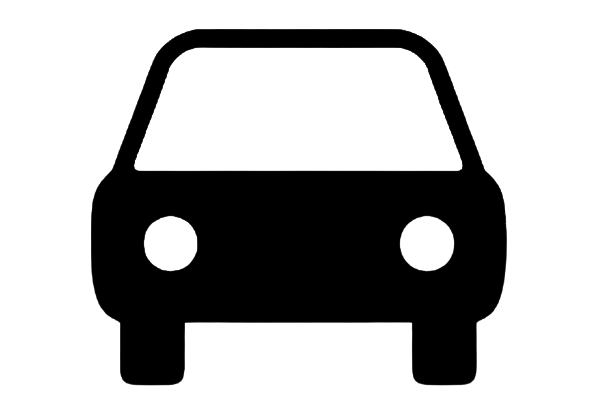
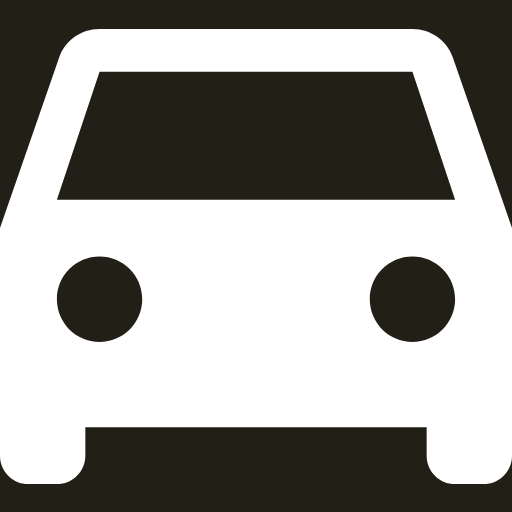
Estilizacion app
Cambie iconos, colores, tamaños de botones y registros

diff --git a/centinela/screens/EditarCarro.js b/centinela/screens/EditarCarro.js
@@ -145,8 +145,8 @@ const styles = StyleSheet.create({
     marginBottom: 30
   },
   input: {
-    width: '100%',
-    height: 40,
+    width: '90%',
+    height: 45,
     borderWidth: 1,
     borderColor: 'gray',
     marginBottom: 20,
@@ -154,17 +154,18 @@ const styles = StyleSheet.create({
     borderRadius: 20
   },
   boton: {
-    backgroundColor: '#365B6D',
+    backgroundColor: '#a29259',
     fontVariant: 'bold',
-    width: 160,
-    height: 70,
-    alignContent: 'center',
+    alignContent: 'center' ,
+    width: 190,
+    height: 50,
     borderRadius: 15
   },
   textButton: {
     fontSize: 25,
     fontWeight: 'bold',
+    paddingTop: '5%',
     textAlign: 'center',
-    color: 'white'
+    color: '#f7faf8'
   }
 });

diff --git a/centinela/screens/InfoCarro.js b/centinela/screens/InfoCarro.js
@@ -136,16 +136,16 @@ const styles = StyleSheet.create({
     flexDirection: 'column',
     justifyContent: 'center',
     alignItems: 'center',
-    padding: 10,
+    padding: 15,
   },
   text: {
     fontSize: 20,
     fontWeight: 'bold',
-    marginBottom: 30,
+    marginBottom: 20,
   },
   button: {
-    backgroundColor: '#365B6D',
-    width: 140,
+    backgroundColor: '#a29259',
+    width: 180,
     height: 40,
     borderRadius: 15,
     alignItems: 'center',
@@ -153,7 +153,7 @@ const styles = StyleSheet.create({
     marginTop: 20,
   },
   buttonText: {
-    color: 'white',
+    color: '#f7faf8',
     fontWeight: 'bold',
   },
 });

diff --git a/centinela/screens/Contacto.js b/centinela/screens/Contacto.js
@@ -134,7 +134,7 @@ const styles = StyleSheet.create({
     borderRadius: 20
   },
   boton: {
-    backgroundColor: '#365B6D',
+    backgroundColor: '#a29259',
     fontVariant: 'bold',
     width: 200,
     height: 40,
@@ -145,6 +145,6 @@ const styles = StyleSheet.create({
     fontSize: 25,
     fontWeight: 'bold',
     textAlign: 'center',
-    color: 'white'
+    color: '#f7faf8'
   }
 });

diff --git a/centinela/screens/Home.js b/centinela/screens/Home.js
@@ -165,7 +165,7 @@ const styles = StyleSheet.create({
     width: 45,
     height: 45,
     borderRadius: 22.5,
-    backgroundColor: 'white',
+    backgroundColor: '#221f17',
     justifyContent: 'center',
     alignItems: 'center',
   },

diff --git a/centinela/screens/Login.js b/centinela/screens/Login.js
@@ -104,7 +104,7 @@ const styles = StyleSheet.create({
         padding: 20,
     },
     card: {
-        width: '30%',
+        width: 370,
         padding: 20,
         borderRadius: 15,
         backgroundColor: '#fffaf6',
